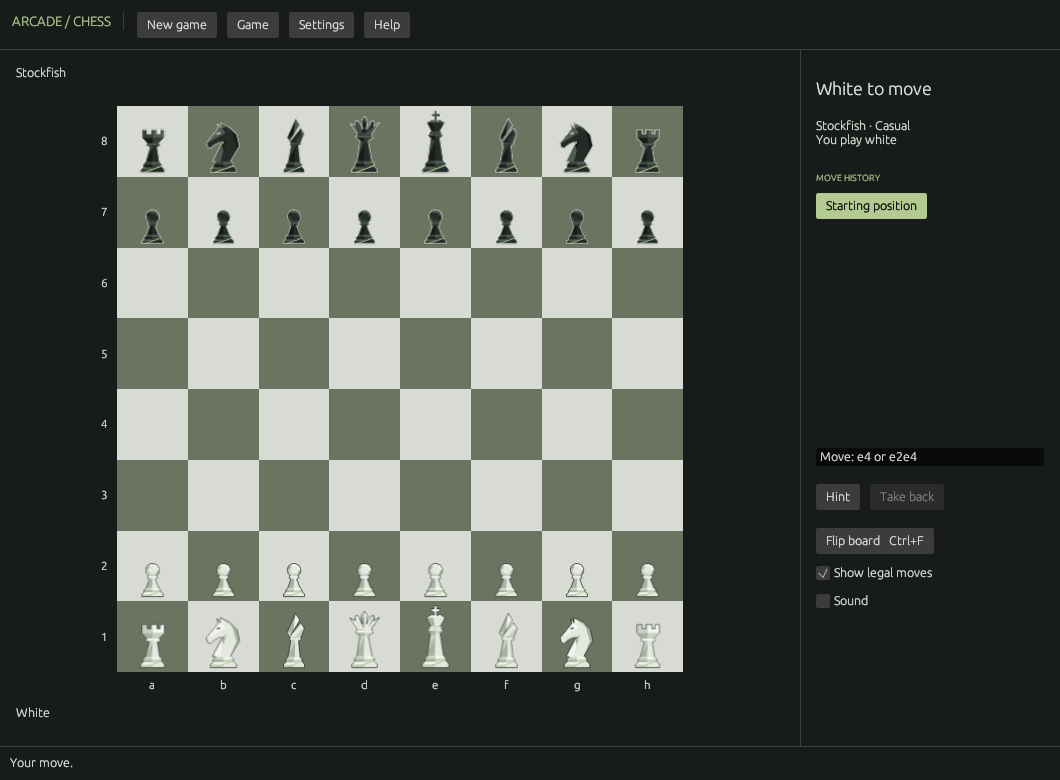
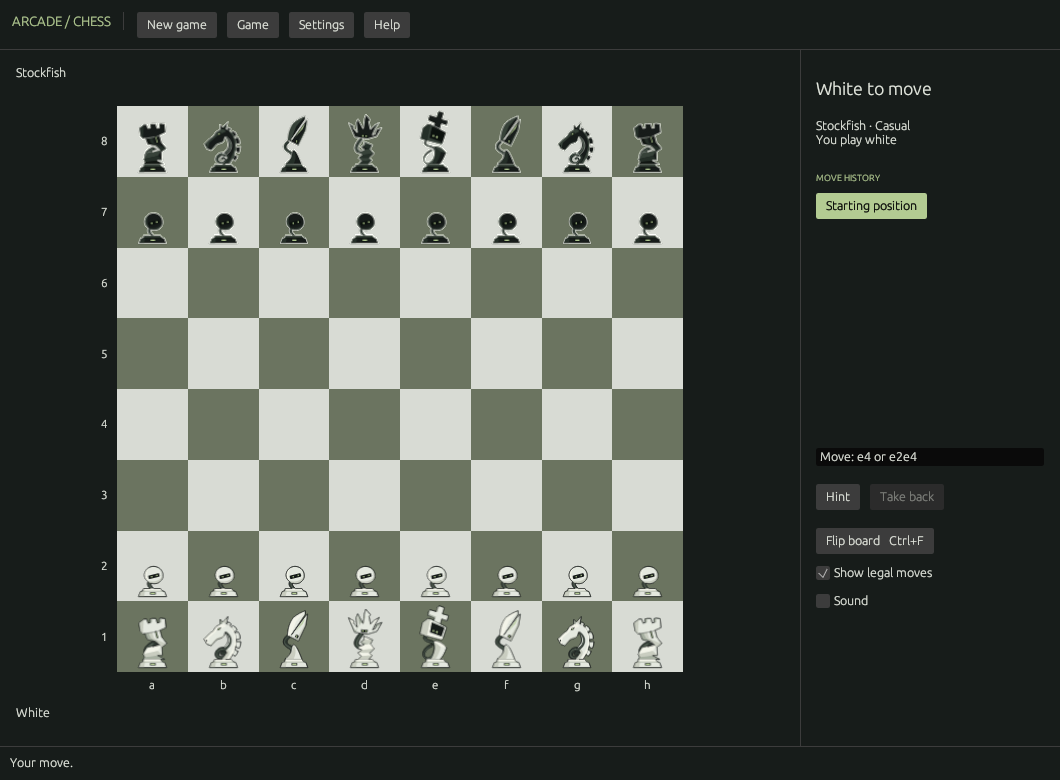
Make After Hours the default with a saved Chisel option

diff --git a/src/pieces.rs b/src/pieces.rs
@@ -1,8 +1,9 @@
-//! Chisel artwork: preserve all facets and recolour only the isolated inlay.
+//! Preserve both artwork sets and recolour only their isolated accents.
+use crate::preferences::PieceStyle;
 use eframe::egui::{Color32, Context, ImageSource};
 use shakmaty::{Color, Role};
 use std::sync::Arc;
-const ART: [(&str, &str); 12] = [
+const CHISEL: [(&str, &str); 12] = [
     (
         "bytes://chisel-wp.svg",
         include_str!("../assets/pieces/wp.svg"),
@@ -52,29 +53,88 @@ const ART: [(&str, &str); 12] = [
         include_str!("../assets/pieces/bk.svg"),
     ),
 ];
+const AFTER_HOURS: [(&str, &str); 12] = [
+    (
+        "bytes://after-hours-wp.svg",
+        include_str!("../assets/pieces/after-hours/wp.svg"),
+    ),
+    (
+        "bytes://after-hours-wn.svg",
+        include_str!("../assets/pieces/after-hours/wn.svg"),
+    ),
+    (
+        "bytes://after-hours-wb.svg",
+        include_str!("../assets/pieces/after-hours/wb.svg"),
+    ),
+    (
+        "bytes://after-hours-wr.svg",
+        include_str!("../assets/pieces/after-hours/wr.svg"),
+    ),
+    (
+        "bytes://after-hours-wq.svg",
+        include_str!("../assets/pieces/after-hours/wq.svg"),
+    ),
+    (
+        "bytes://after-hours-wk.svg",
+        include_str!("../assets/pieces/after-hours/wk.svg"),
+    ),
+    (
+        "bytes://after-hours-bp.svg",
+        include_str!("../assets/pieces/after-hours/bp.svg"),
+    ),
+    (
+        "bytes://after-hours-bn.svg",
+        include_str!("../assets/pieces/after-hours/bn.svg"),
+    ),
+    (
+        "bytes://after-hours-bb.svg",
+        include_str!("../assets/pieces/after-hours/bb.svg"),
+    ),
+    (
+        "bytes://after-hours-br.svg",
+        include_str!("../assets/pieces/after-hours/br.svg"),
+    ),
+    (
+        "bytes://after-hours-bq.svg",
+        include_str!("../assets/pieces/after-hours/bq.svg"),
+    ),
+    (
+        "bytes://after-hours-bk.svg",
+        include_str!("../assets/pieces/after-hours/bk.svg"),
+    ),
+];
+fn art(style: PieceStyle) -> &'static [(&'static str, &'static str); 12] {
+    match style {
+        PieceStyle::AfterHours => &AFTER_HOURS,
+        PieceStyle::Chisel => &CHISEL,
+    }
+}
 pub struct Pieces {
     accent: Option<Color32>,
+    style: PieceStyle,
     bytes: [Arc<[u8]>; 12],
 }
 impl Default for Pieces {
     fn default() -> Self {
         Self {
             accent: None,
+            style: PieceStyle::default(),
             bytes: std::array::from_fn(|_| Arc::from([])),
         }
     }
 }
 impl Pieces {
-    pub fn refresh(&mut self, ctx: &Context, accent: Color32) {
-        if self.accent == Some(accent) {
+    pub fn refresh(&mut self, ctx: &Context, accent: Color32, style: PieceStyle) {
+        if self.accent == Some(accent) && self.style == style {
             return;
         }
         let colour = format!("#{:02x}{:02x}{:02x}", accent.r(), accent.g(), accent.b());
-        for (i, (uri, svg)) in ART.iter().enumerate() {
+        for (i, (uri, svg)) in art(style).iter().enumerate() {
             ctx.forget_image(uri);
             self.bytes[i] = Arc::from(svg.replace("#b3cb92", &colour).into_bytes());
         }
         self.accent = Some(accent);
+        self.style = style;
     }
     pub fn image(&self, color: Color, role: Role) -> ImageSource<'static> {
         let i = if color == Color::Black { 6 } else { 0 }
@@ -87,7 +147,7 @@ impl Pieces {
                 Role::King => 5,
             };
         ImageSource::Bytes {
-            uri: ART[i].0.into(),
+            uri: art(self.style)[i].0.into(),
             bytes: self.bytes[i].clone().into(),
         }
     }
@@ -99,17 +159,23 @@ mod tests {
     fn recolouring_preserves_geometry_and_refreshes_all_pieces() {
         let ctx = Context::default();
         let mut pieces = Pieces::default();
-        for accent in [
-            Color32::from_rgb(39, 109, 207),
-            Color32::from_rgb(225, 90, 110),
+        for style in [
+            PieceStyle::AfterHours,
+            PieceStyle::Chisel,
+            PieceStyle::AfterHours,
         ] {
-            pieces.refresh(&ctx, accent);
-            let token = format!("#{:02x}{:02x}{:02x}", accent.r(), accent.g(), accent.b());
-            for (i, (_, original)) in ART.iter().enumerate() {
-                assert_eq!(original.matches("#b3cb92").count(), 1);
-                let actual = std::str::from_utf8(&pieces.bytes[i]).unwrap();
-                assert_eq!(actual.replace(&token, "#b3cb92"), *original);
-                assert!(actual.contains("viewBox=\"0 0 128 128\""));
+            for accent in [
+                Color32::from_rgb(39, 109, 207),
+                Color32::from_rgb(225, 90, 110),
+            ] {
+                pieces.refresh(&ctx, accent, style);
+                let token = format!("#{:02x}{:02x}{:02x}", accent.r(), accent.g(), accent.b());
+                for (i, (_, original)) in art(style).iter().enumerate() {
+                    assert_eq!(original.matches("#b3cb92").count(), 1);
+                    let actual = std::str::from_utf8(&pieces.bytes[i]).unwrap();
+                    assert_eq!(actual.replace(&token, "#b3cb92"), *original);
+                    assert!(actual.contains("viewBox=\"0 0 128 128\""));
+                }
             }
         }
     }

diff --git a/src/ui.rs b/src/ui.rs
@@ -382,7 +382,8 @@ impl ChessApp {
             };
             self.theme_checked = Instant::now();
         }
-        self.pieces.refresh(ctx, self.theme.accent);
+        self.pieces
+            .refresh(ctx, self.theme.accent, self.preferences.piece_style);
         self.apply_style(ctx);
         self.shortcuts(ctx);
         ctx.request_repaint_after(if self.engine.busy {
@@ -932,6 +933,26 @@ impl ChessApp {
                 ui.label("Omarchy Arcade · Chess");
                 if ui.checkbox(&mut self.preferences.follow_omarchy, "Follow Omarchy colours").changed() {
                     self.theme = if self.preferences.follow_omarchy { Theme::load() } else { Theme::default() };
+                    self.save_preferences();
+                }
+                let previous_style = self.preferences.piece_style;
+                egui::ComboBox::from_label("Chess pieces")
+                    .selected_text(self.preferences.piece_style.label())
+                    .show_ui(ui, |ui| {
+                        for style in [
+                            crate::preferences::PieceStyle::AfterHours,
+                            crate::preferences::PieceStyle::Chisel,
+                        ] {
+                            ui.selectable_value(
+                                &mut self.preferences.piece_style,
+                                style,
+                                style.label(),
+                            );
+                        }
+                    });
+                if previous_style != self.preferences.piece_style {
+                    self.pieces
+                        .refresh(ctx, self.theme.accent, self.preferences.piece_style);
                     self.save_preferences();
                 }
                 if ui.checkbox(&mut self.preferences.sound, "Sound effects").changed() { self.save_preferences(); }

diff --git a/src/preferences.rs b/src/preferences.rs
@@ -1,11 +1,28 @@
 use serde::{Deserialize, Serialize};
 use std::path::{Path, PathBuf};
 
+#[derive(Clone, Copy, Debug, Default, Serialize, Deserialize, PartialEq, Eq)]
+#[serde(rename_all = "snake_case")]
+pub enum PieceStyle {
+    #[default]
+    AfterHours,
+    Chisel,
+}
+impl PieceStyle {
+    pub fn label(self) -> &'static str {
+        match self {
+            Self::AfterHours => "After Hours",
+            Self::Chisel => "Chisel",
+        }
+    }
+}
+
 #[derive(Clone, Debug, Serialize, Deserialize, PartialEq, Eq)]
 #[serde(default)]
 pub struct Preferences {
     pub version: u32,
     pub sound: bool,
+    pub piece_style: PieceStyle,
     pub follow_omarchy: bool,
     pub engine_path: Option<PathBuf>,
 }
@@ -14,6 +31,7 @@ impl Default for Preferences {
         Self {
             version: 1,
             sound: false,
+            piece_style: PieceStyle::default(),
             follow_omarchy: true,
             engine_path: None,
         }

diff --git a/tests/rust_core.rs b/tests/rust_core.rs
@@ -319,7 +319,13 @@ fn real_stockfish_move() {
 fn preferences_survive_updates_and_bad_settings_are_preserved() {
     use omarchy_chess::preferences::Preferences;
     let dir = tempfile::tempdir().unwrap();
+    let legacy: Preferences = serde_json::from_str(r#"{"version":1,"sound":true}"#).unwrap();
+    assert_eq!(
+        legacy.piece_style,
+        omarchy_chess::preferences::PieceStyle::AfterHours
+    );
     let p = Preferences {
+        piece_style: omarchy_chess::preferences::PieceStyle::Chisel,
         sound: true,
         follow_omarchy: false,
         ..Default::default()

diff --git a/assets/pieces/after-hours/IMPLEMENTATION.md b/assets/pieces/after-hours/IMPLEMENTATION.md
@@ -1,0 +1,47 @@
+# Midnight Operators: After Hours
+
+Twelve transparent SVG pieces for Omarchy Chess, artwork version 1.0.
+
+## Files and rendering
+
+`svg/` contains `wk`, `wq`, `wb`, `wn`, `wr`, `wp`, `bk`, `bq`, `bb`, `bn`, `br`, `bp`.
+Every asset has a square `viewBox="0 0 128 128"`, with a shared base centre at x=64 and baseline at y=120. The tallest piece begins near y=9. Natural role heights are retained: the pawn is deliberately much shorter. Render the complete viewBox into the piece rectangle without another large inset. Preserve aspect ratio.
+
+The artwork consists entirely of closed polygon and cubic Bezier paths, grouped under a local transform. Cable openings are transparent. No raster payloads, external fonts, linked resources, filters or gradients are present. White and Black share exactly the same geometry.
+
+## Colour roles
+
+| Role | White | Black |
+|---|---|---|
+| Body | `#e4e8df` | `#171c1a` |
+| Exterior outline | `#171c1a` | `#e4e8df` |
+| Highlight | `#f3f4e9` | `#374239` |
+| Middle facet | `#c9cdc0` | `#252f28` |
+| Shadow facet | `#a6afa0` | `#111712` |
+| Cable | `#303a33` | `#252f29` |
+| Cable rib | `#535e53` | `#465248` |
+| Terminal screen | `#171c1a` | `#0b110d` |
+| Recolourable accent | `#b3cb92` | `#b3cb92` |
+
+Set the `fill` on `<g id="accent" data-color-role="accent">` to the active Omarchy accent. Its children inherit that colour. This changes the face pixels, mitre inset, horse eye and base indicators together. Each SVG contains exactly one literal `#b3cb92`, so replacing that token is also sufficient for these versioned assets. Do not recolour the body, screen or outline with the theme accent. Include the accent value in the app's texture cache key.
+
+For accent-free rendering, set the accent group's opacity to zero. All accent shapes sit over opaque shapes. The opaque geometry and rendered alpha remain identical with the accent hidden. Keep the contrasting outline when changing board palettes.
+
+## Verification and limits
+
+- Direct Inkscape renders at 32, 48, 64 and 256 pixels; exact dimensions, transparent margins and no clipping verified.
+- Matching White/Black path data and identical alpha at all four sizes verified.
+- Coral, blue and accent-hidden renders checked for all twelve pieces at 64 pixels; alpha unchanged.
+- Labelled contact sheet, light/dark starting-position mockups, native-size proof, enlarged 32-pixel proof and a concept-to-vector comparison included.
+- Visual review: the defining heads remain recognisable at 32 pixels, but terminal eyes, cable ribs and some narrow gaps soften or merge. 48–64 pixels are preferable for this expressive set. At 32 pixels the rook's crooked torso and queen's spring read as broad angular masses.
+- The previews are artwork mockups, not screenshots of the Rust application. Actual app rendering, fractional display scaling, drag behaviour and live theme switching have not been tested here. No game code or existing game artwork was replaced.
+
+## Translation choices and provenance
+
+Original concept: the approved image generated in this conversation, headed “MIDNIGHT OPERATORS — After hours / experimental concept” (`exec-0b919594-1cac-4a2b-85b4-3821fee8b180.png`). Its SHA-256 is recorded in `manifest.json`.
+
+The SVG paths were newly authored against that image's upper-row coordinates, including hand-shaped Bezier cable curves. Inkscape's vector Boolean union produced the final exterior outline. No raster auto-tracing or embedded raster images were used. Lower-row pieces reuse the same geometry with a separate palette, correcting the small shape differences in the generated study.
+
+Preserved: tilted terminal king and cross, asymmetric crown, concertina queen, split mitre, curled horse neck, zigzag rook and small round-headed pawn. Deliberate differences: common bases, flatter and simpler shading, a stronger continuous contrasting exterior rim (about 1.31 viewBox units) for small-square readability, and simplified cable ribs. The included comparison makes these differences reviewable; this is a vector interpretation, not a pixel-identical copy of the raster study.
+
+The creative brief was guided by the [Omarchy Doctrine](https://omarchy.org/doctrine/): whimsy, computing heritage, craft and ownership. No official Omarchy logo or third-party chess artwork is used. This pack does not claim official Omarchy endorsement or add a software licence on the user's behalf.

diff --git a/docs/VERIFICATION.md b/docs/VERIFICATION.md
@@ -37,3 +37,12 @@ Normal 1060×780 and compact light 740×560 windows were rendered in CI and visu
 Imported the twelve Chisel SVGs unchanged from the selected design handoff. Native Xvfb/software-GL renders checked at 1060×780 and compact 740×560, with dark, light and coral-accent palettes. Only inlays recolour; fixed body facets remain intact. The full source viewBox is preserved, including its built-in padding. Board and drag use matching image sizes.
 
 42 tests pass, including real Stockfish integration, existing native-widget input tests and a new all-piece recolouring regression. Formatting, Clippy and release build pass locally. These checks do not replace real Omarchy fractional-scaling or visual acceptance.
+
+## After Hours default (2026-09-11)
+
+After Hours is the default for fresh installs and existing settings without a style field. Chisel remains selectable in Settings, with the choice persisted independently of game saves. All twelve delivered After Hours SVGs are copied unchanged.
+
+- All 42 tests pass with real Stockfish, including existing drag/keyboard/modal checks; settings coverage verifies legacy defaults and Chisel persistence. Artwork checks cover both styles and accent replacement without geometry changes.
+- Formatting, Clippy with warnings denied, and native release build pass.
+- Actual Xvfb native screenshots updated for dark sage, compact light, and coral accents. Full viewBox margins are preserved. Fine facial details soften at the compact size.
+- Real Omarchy/Hyprland display scaling and desktop acceptance remain outstanding. Arch package verification runs in CI after this commit; no new local package result is claimed here.

diff --git a/DECISIONS.md b/DECISIONS.md
@@ -75,3 +75,8 @@ Tom requested delivery of the polish milestone and supplied the shared four-poin
 - C02: Recolour only the single inlay fill token to the active Omarchy accent. Keep body, facet and outline colours fixed for side recognition. Invalidate all twelve cached images when the accent changes; use the SVG loader's size-aware rendering for window/display scaling.
 - C03: Chisel includes its own transparent margins. Remove the former extra 10% inset around board images and match the dragged piece's footprint to its square image; native renders showed that applying both margins made the pieces unnecessarily small.
 - C04: Replace the default artwork without adding a new style selector in this milestone. Previous Cburnett artwork remains recoverable in Git history. No changes to rules, saves, engine selection or package dependencies.
+
+## After Hours default
+
+- A01: Tom explicitly selected After Hours as the default. Existing settings without a piece style also receive After Hours; an explicit Chisel selection persists across updates.
+- A02: Keep Chisel selectable in Settings. Both sets retain their complete viewBox and original geometry, and only the isolated accent follows the theme. Style and accent changes refresh cached artwork for both board and drag rendering.

diff --git a/THIRD_PARTY.md b/THIRD_PARTY.md
@@ -12,3 +12,5 @@ Omarchy Chess is GPL-3.0-or-later. Full license: LICENSE. Exact Rust dependency 
 The small app icon in packaging/ is original project artwork, GPL-3.0-or-later. The app reads user-installed Omarchy theme colours but does not redistribute Omarchy branding or theme files.
 
 Rust dependencies are linked into the binary. Distributors must retain applicable copyright/license notices and provide required corresponding source, including dependencies. `cargo vendor --locked` can collect the locked dependency sources and their license files for a source distribution; Cargo.lock alone is not a source offer. This preview does not publish a combined installer or stable binary release.
+
+- **Midnight Operators: After Hours artwork**: original project SVG interpretation of the selected generated concept, distributed under the project GPL-3.0-or-later licence. Default piece set; the original handoff is preserved in assets/pieces/after-hours/IMPLEMENTATION.md. Its pre-integration verification notes describe the asset delivery, not the current application.
